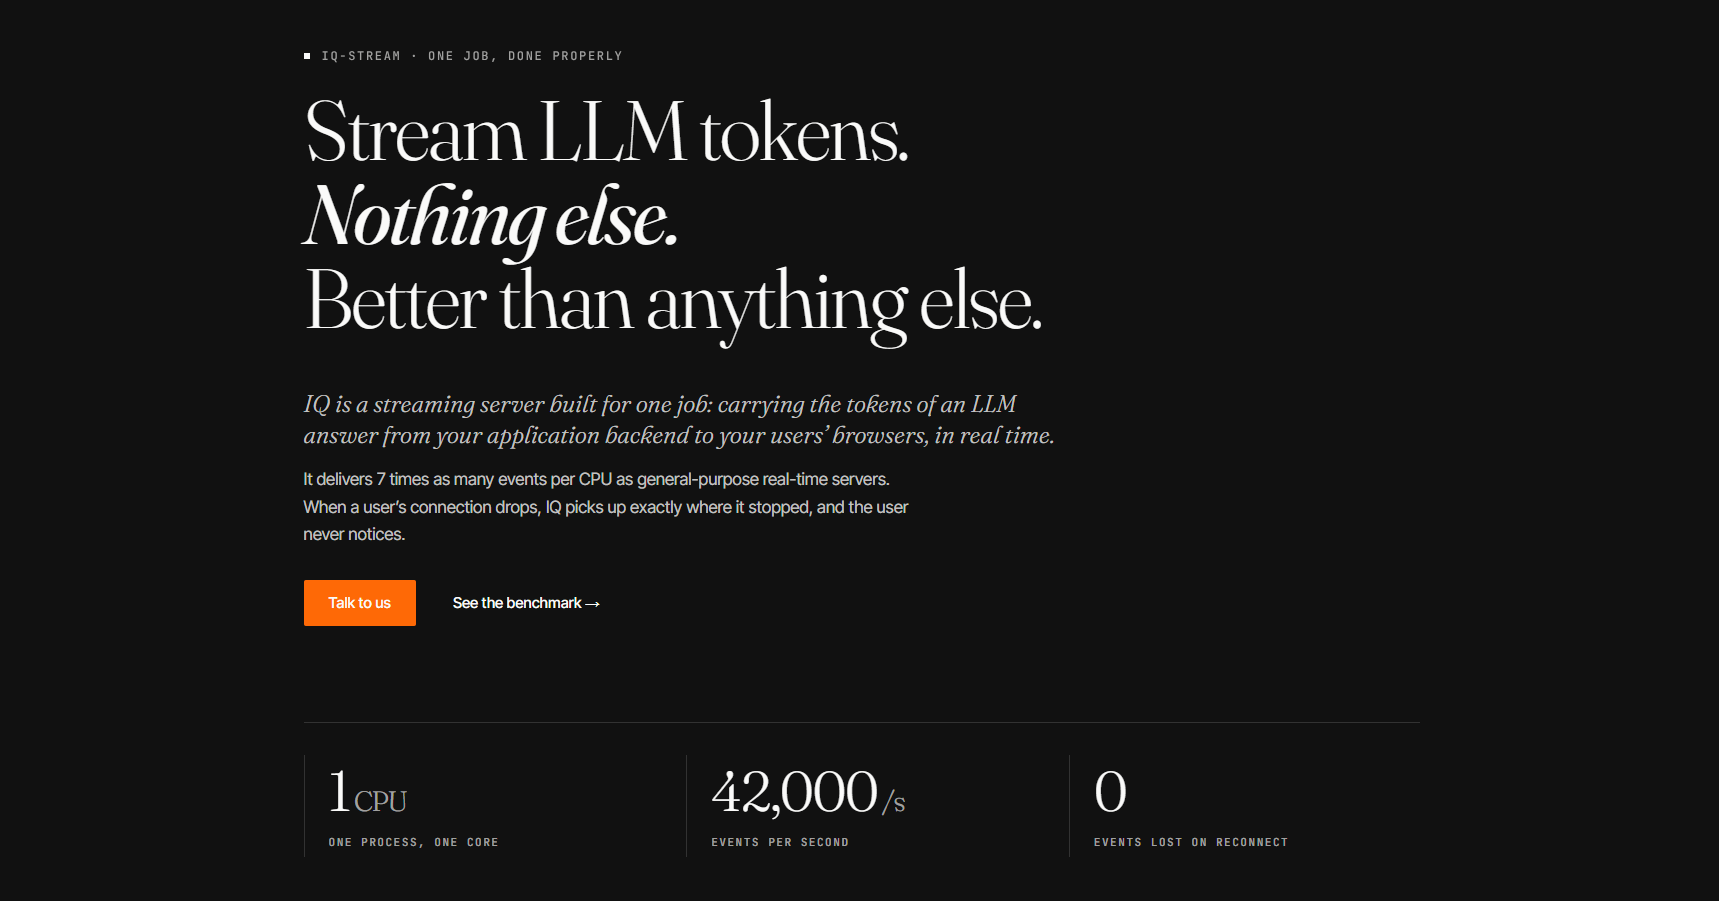
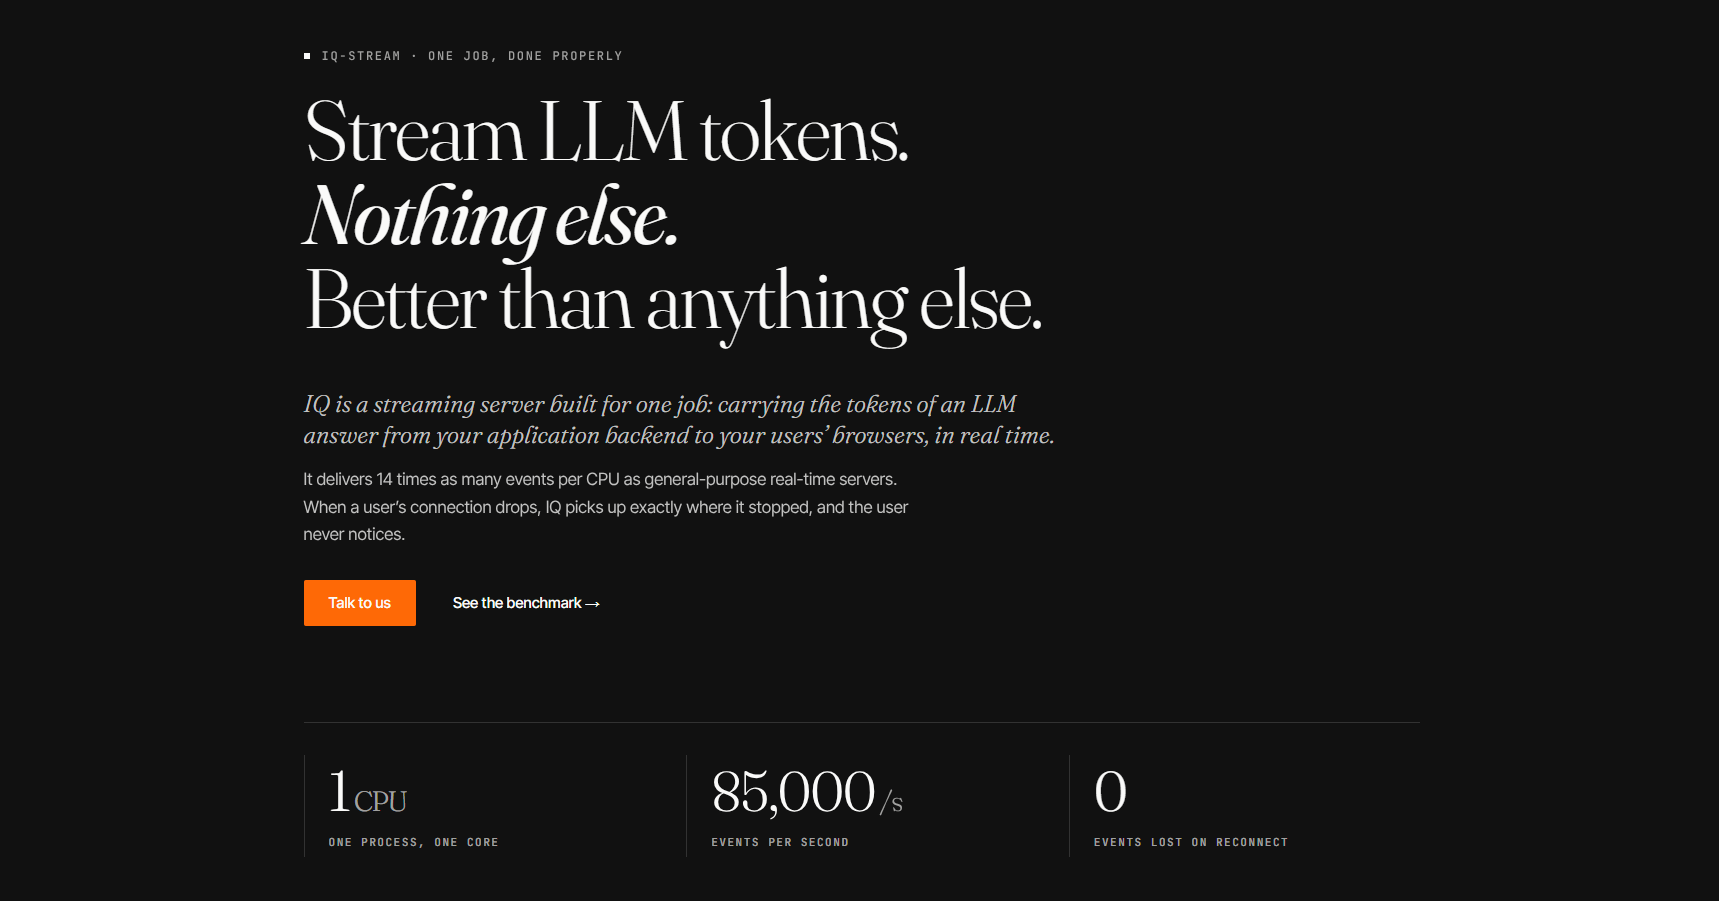
Raise the one-CPU ceiling to 2,000 runs and 85,000 events per second
Add the 2,000-run result to the one-CPU benchmark table, where only
IQ-Stream was tested, and let a load leave out the servers that were
not run at it. Update the figures that follow from the new ceiling: the
home hero, the throughput multiple, the per-event cost at peak load, the
runs per CPU on the cloud providers page and the social cover image.

Claude-Session: https://claude.ai/code/session_01H82s6K6cTLKE4G5rRMobTQ

Changed region(s): [[0.185, 0.5283, 0.5241, 0.6215], [0.4008, 0.8391, 0.5241, 0.9012]]

diff --git a/src/consts/benchmark.ts b/src/consts/benchmark.ts
@@ -29,7 +29,8 @@ export interface Measure {
   lostPct?: number;
 }
 
-export type Load = Record<ServerKey, Measure>;
+/** Results of one load. Servers that were not tested at it are left out. */
+export type Load = Partial<Record<ServerKey, Measure>>;
 
 /** Below this delivery rate the backlog hides reconnect losses, so they are not reported. */
 export const DELIVERY_THRESHOLD = 90;
@@ -73,6 +74,10 @@ export const ONE_CPU = {
     reverb: { delivered: 5.4, cpuPerEventUs: 428.8, p99Ms: 24_650 },
     soketi: { delivered: 12, cpuPerEventUs: 199.9, p99Ms: 22_330 },
   },
+  // Only IQ was tested here: every other server had already fallen behind at 1,000 runs or fewer.
+  2000: {
+    iq: { delivered: 99.5, cpuPerEventUs: 11.4, p99Ms: 92.6, lostPct: 0 },
+  },
 } satisfies Record<number, Load>;
 
 /** Results by number of concurrent runs, on two CPUs. */
@@ -96,10 +101,11 @@ export const TWO_CPUS = {
 /** IQ's p99 latency at a load every general-purpose server had already fallen behind on. */
 export const HEADLINE_P99 = { runs: 300, ms: ONE_CPU[300].iq.p99Ms };
 
-export const EVENTS_PER_SECOND = { oneCpu: 42_000, twoCpus: 76_000 };
+/** Rounded. On one CPU: 85,458 events per second, at 2,000 concurrent runs. */
+export const EVENTS_PER_SECOND = { oneCpu: 85_000, twoCpus: 76_000 };
 
 /** IQ relays more than this many times the events per CPU of a general-purpose server. */
-export const THROUGHPUT_MULTIPLE = 7;
+export const THROUGHPUT_MULTIPLE = 14;
 
 /** What IQ moved on two CPUs, as a multiple of what each competitor moved. */
 export const TWO_CPU_MULTIPLE = { mercure: 9, soketi: 17, reverb: 35 };

diff --git a/src/consts/site.ts b/src/consts/site.ts
@@ -9,7 +9,7 @@ export const COVER = {
   type: 'image/png',
   width: 1719,
   height: 901,
-  alt: 'IQ-Stream: Stream LLM tokens. Nothing else. Better than anything else. 42,000 events per second on one CPU, 0 events lost on reconnect.',
+  alt: 'IQ-Stream: Stream LLM tokens. Nothing else. Better than anything else. 85,000 events per second on one CPU, 0 events lost on reconnect.',
 };
 
 export const CONTACT = {

diff --git a/src/utils/format.ts b/src/utils/format.ts
@@ -2,7 +2,7 @@ const numbers = new Intl.NumberFormat('en-US');
 const and = new Intl.ListFormat('en-GB', { type: 'conjunction' });
 const or = new Intl.ListFormat('en-GB', { type: 'disjunction' });
 
-/** 42000 → "42,000" */
+/** 85000 → "85,000" */
 export const formatNumber = (value: number) => numbers.format(value);
 
 /** ["a", "b", "c"] → "a, b and c" */

diff --git a/src/consts/providers.ts b/src/consts/providers.ts
@@ -1,7 +1,7 @@
 import { ONE_CPU, RUN, type Measure } from './benchmark';
 
 /** Concurrent agent runs IQ serves on one CPU. */
-export const RUNS_ON_ONE_CPU = 1_000;
+export const RUNS_ON_ONE_CPU = 2_000;
 
 /** Concurrent runs before which every general-purpose server falls behind. */
 export const GENERAL_PURPOSE_LIMIT = 300;
